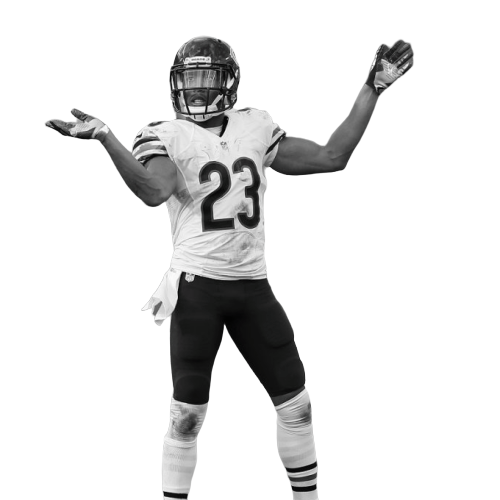
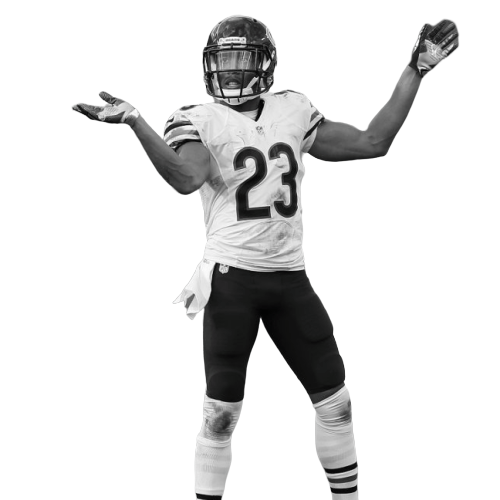
Added images image styles

Changed region(s): [[0.09, 0.03, 0.93, 1.0]]

diff --git a/index.html b/index.html
@@ -19,6 +19,67 @@
             </div>
             <div class="image-carousel">
                 <div class="slide" style="width: 400px;">
+                    <img class="player-image" id='trubisky' src="images/player-trubisky.png" alt='Mitchell Trubisky' />
+                    <span class="player-name">Mitchell Trubisky</span>
+                </div>
+                <div class="slide">
+                    <img class="player-image" id='mack' src="images/player-mack.png" alt='Khalil Mack' />
+                    <span class="player-name">Khalil Mack</span>
+                </div>
+                <div class="slide">
+                    <img class="player-image" id='hicks' src="images/player-hicks.png" alt='Akiem Hicks' />
+                    <span class="player-name">Akiem Hicks</span>
+                </div>
+                <div>
+                    <img class="player-image" id='jackson' src="images/player-jackson.png" alt='Eddie Jackson' />
+                    <span class="player-name">Eddie Jackson</span>
+                </div>
+                <div>
+                    <img class="player-image" id='fuller' src="images/player-fuller.png" alt='Kyle Fuller' />
+                    <span class="player-name">Kyle Fuller</span>
+                </div>
+            </div>
+        </div>
+
+        <div class="container" id="packers">
+            <div class='team-logo'>
+                <img src="images/logo-packers.png" alt="Packers Logo" />
+            </div>
+            <div class="image-carousel">
+                <div class="slide" style="width: 400px;">
+                    <img class="player-image" id='rodgers' src="images/player-rodgers.png" alt='Aaron Rodgers' />
+                    <span class="player-name">Aaron Rodgers</span>
+                </div>
+                <div class="slide">
+                    <img class="player-image" id='bakhtiara' src="images/player-bakhtiari.png" alt='David Bakhtiari' />
+                    <span class="player-name">David Bakhtiari</span>
+                </div>
+                <div class="slide">
+                    <img class="player-image" id='adams' src="images/player-adams.png" alt='Davante Adams' />
+                    <span class="player-name">Davante Adams</span>
+                </div>
+                <div>
+                    <img class="player-image" id='clark' src="images/player-clark.png" alt='Kenny Clark' />
+                    <span class="player-name">Kenny Clark</span>
+                </div>
+                <div>
+                    <img class="player-image" id='daniels' src="images/player-daniels.png" alt='Mike Daniels' />
+                    <span class="player-name">Mike Daniels</span>
+                </div>
+            </div>
+        </div>
+
+
+        <div id="nfc-logo-wrapper">
+            <img src="images/logo-nfc.png" alt="NFC North Logo" />
+        </div>
+
+        <div class="container" id="vikings">
+            <div class='team-logo'>
+                <img src="images/logo-vikings.png" alt="Vikings Logo" />
+            </div>
+            <div class="image-carousel">
+                <div class="slide" style="width: 400px;">
                     <img class="player-image" id='trubisky' src="images/player-trubisky.png" alt='Mitch Trubisky' />
                     <span class="player-name">Mitchell Trubisky</span>
                 </div>
@@ -39,34 +100,34 @@
                     <span class="player-name">Kyle Fuller</span>
                 </div>
             </div>
-
-        </div>
-
-        <div class="container" id="packers">
-            <div class='team-logo'>
-                <img src="images/logo-packers.png" alt="Packers Logo" />
-            </div>
-            <img class="player-image" id='rodgers' src="images/player-rodgers.png" alt='Aaron Rodgers' />
-            <span class="player-name">Aaron Rodgers</span>
-        </div>
-        <div id="nfc-logo-wrapper">
-            <img src="images/logo-nfc.png" alt="NFC North Logo" />
-        </div>
-
-        <div class="container" id="vikings">
-            <div class='team-logo'>
-                <img src="images/logo-vikings.png" alt="Vikings Logo" />
-            </div>
-            <img class="player-image" id='rodgers' src="images/player-cousins.png" alt='Kirk Cousins' />
-            <span class="player-name">Kirk Cousins</span>
         </div>
 
         <div class="container" id="lions">
             <div class='team-logo'>
                 <img src="images/logo-lions.png" alt="Packers Logo" />
             </div>
-            <img class="player-image" id='rodgers' src="images/player-stafford.png" alt='Matthew Rodgers' />
-            <span class="player-name">Matthew Stafford</span>
+            <div class="image-carousel">
+                <div class="slide" style="width: 400px;">
+                    <img class="player-image" id='trubisky' src="images/player-trubisky.png" alt='Mitch Trubisky' />
+                    <span class="player-name">Mitchell Trubisky</span>
+                </div>
+                <div class="slide">
+                    <img class="player-image" id='mack' src="images/player-mack.png" alt='Khalil Mack' />
+                    <span class="player-name">Khalil Mack</span>
+                </div>
+                <div class="slide">
+                    <img class="player-image" id='hicks' src="images/player-hicks.png" alt='Akiem Hicks' />
+                    <span class="player-name">Akiem Hicks</span>
+                </div>
+                <div>
+                    <img class="player-image" id='jackson' src="images/player-jackson.png" alt='Eddie Jackson' />
+                    <span class="player-name">Eddie Jackson</span>
+                </div>
+                <div>
+                    <img class="player-image" id='fuller' src="images/player-fuller.png" alt='Eddie Jackson' />
+                    <span class="player-name">Kyle Fuller</span>
+                </div>
+            </div>
         </div>
 
         <h1>KING OF THE NORTH</h1>

diff --git a/styles/sass/main.scss b/styles/sass/main.scss
@@ -1,8 +1,11 @@
 $bears-primary: #0b162a;
 $bears-secondary: #c83803;
 $packers-primary: #203731;
+$packers-secondary:#FFB612;
 $vikings-primary: #4f2683;
+$vikings-secondary: #FFC62F;
 $lions-primary: #0076b6;
+$lions-secondary:#B0B7BC;
 $nfc-blue: #003b66;
 
 @font-face {
@@ -54,8 +57,8 @@ main {
 
 
     .team-logo {
-      width: 100px;
-      height: 100px;
+      width: 75px;
+      height: 75px;
       position: absolute;
       margin: 15px;
       border-radius: 50%;
@@ -63,8 +66,8 @@ main {
 
       img {
         margin: 12.5px auto;
-        height: 75px;
-        width: 75px;
+        height: 50px;
+        width: 50px;
         display: block;
       }
     }
@@ -81,9 +84,11 @@ main {
       line-height: 100px;
     }
 
-    .player-image{
+    .player-image {
+      margin-top: 25px;
+      width: 400px;
+      height: 400px;
       position: relative;
-      left: 20px;;
     }
   }
 
@@ -98,12 +103,20 @@ main {
     .player-name {
       background-color: $bears-primary;
     }
+
+    .slick-prev:before {
+      color: $bears-secondary;
+    }
+
+    .slick-next:before {
+      color: $bears-secondary;
+    }
   }
 
   #packers {
     background-color: $packers-primary;
     background-size: 22.5px 22.5px;
-    background-image: url("../images/icon-packers-triangle.svg");
+    background-image: url("../images/icon-packers-plus.svg");
 
     .team-logo {
       background-color: $packers-primary;
@@ -111,6 +124,14 @@ main {
 
     .player-name {
       background-color: $packers-primary;
+    }
+
+    .slick-prev:before {
+      color: $packers-secondary;
+    }
+
+    .slick-next:before {
+      color: $packers-secondary;
     }
   }
 
@@ -125,6 +146,14 @@ main {
     .player-name {
       background-color: $vikings-primary;
     }
+
+    .slick-prev:before {
+      color: $vikings-secondary;
+    }
+
+    .slick-next:before {
+      color: $vikings-secondary;
+    }
   }
 
   #lions {
@@ -135,13 +164,16 @@ main {
       background-color: $lions-primary;
     }
 
-    .player-image {
-      position: relative;
-      left: 20px;
-    }
-
     .player-name {
       background-color: $lions-primary;
+    }
+
+    .slick-prev:before {
+      color: $lions-secondary;
+    }
+
+    .slick-next:before {
+      color: $lions-secondary;
     }
   }
 
@@ -155,13 +187,4 @@ main {
       height: 300px;
     }
   }
-}
-
-//Slick Styles
-.slick-prev:before {
-  color: $bears-secondary;
-}
-
-.slick-next:before {
-  color: $bears-secondary;
 }

diff --git a/styles/index.css b/styles/index.css
@@ -43,8 +43,8 @@ main .container {
   border-radius: 10px;
 }
 main .container .team-logo {
-  width: 100px;
-  height: 100px;
+  width: 75px;
+  height: 75px;
   position: absolute;
   margin: 15px;
   border-radius: 50%;
@@ -52,8 +52,8 @@ main .container .team-logo {
 }
 main .container .team-logo img {
   margin: 12.5px auto;
-  height: 75px;
-  width: 75px;
+  height: 50px;
+  width: 50px;
   display: block;
 }
 main .container .player-name {
@@ -65,8 +65,10 @@ main .container .player-name {
   line-height: 100px;
 }
 main .container .player-image {
+  margin-top: 25px;
+  width: 400px;
+  height: 400px;
   position: relative;
-  left: 20px;
 }
 main #bears {
   background-color: #0b162a;
@@ -78,16 +80,28 @@ main #bears .team-logo {
 main #bears .player-name {
   background-color: #0b162a;
 }
+main #bears .slick-prev:before {
+  color: #c83803;
+}
+main #bears .slick-next:before {
+  color: #c83803;
+}
 main #packers {
   background-color: #203731;
   background-size: 22.5px 22.5px;
-  background-image: url("../images/icon-packers-triangle.svg");
+  background-image: url("../images/icon-packers-plus.svg");
 }
 main #packers .team-logo {
   background-color: #203731;
 }
 main #packers .player-name {
   background-color: #203731;
+}
+main #packers .slick-prev:before {
+  color: #FFB612;
+}
+main #packers .slick-next:before {
+  color: #FFB612;
 }
 main #vikings {
   background-color: #4f2683;
@@ -99,6 +113,12 @@ main #vikings .team-logo {
 main #vikings .player-name {
   background-color: #4f2683;
 }
+main #vikings .slick-prev:before {
+  color: #FFC62F;
+}
+main #vikings .slick-next:before {
+  color: #FFC62F;
+}
 main #lions {
   background-color: #0076b6;
   background-image: url("../images/icon-lions-square.svg");
@@ -106,12 +126,14 @@ main #lions {
 main #lions .team-logo {
   background-color: #0076b6;
 }
-main #lions .player-image {
-  position: relative;
-  left: 20px;
-}
 main #lions .player-name {
   background-color: #0076b6;
+}
+main #lions .slick-prev:before {
+  color: #B0B7BC;
+}
+main #lions .slick-next:before {
+  color: #B0B7BC;
 }
 main #nfc-logo-wrapper {
   width: 100%;
@@ -121,14 +143,6 @@ main #nfc-logo-wrapper img {
   margin: 0 auto;
   width: 300px;
   height: 300px;
-}
-
-.slick-prev:before {
-  color: #c83803;
-}
-
-.slick-next:before {
-  color: #c83803;
 }
 
 /*# sourceMappingURL=index.css.map */
